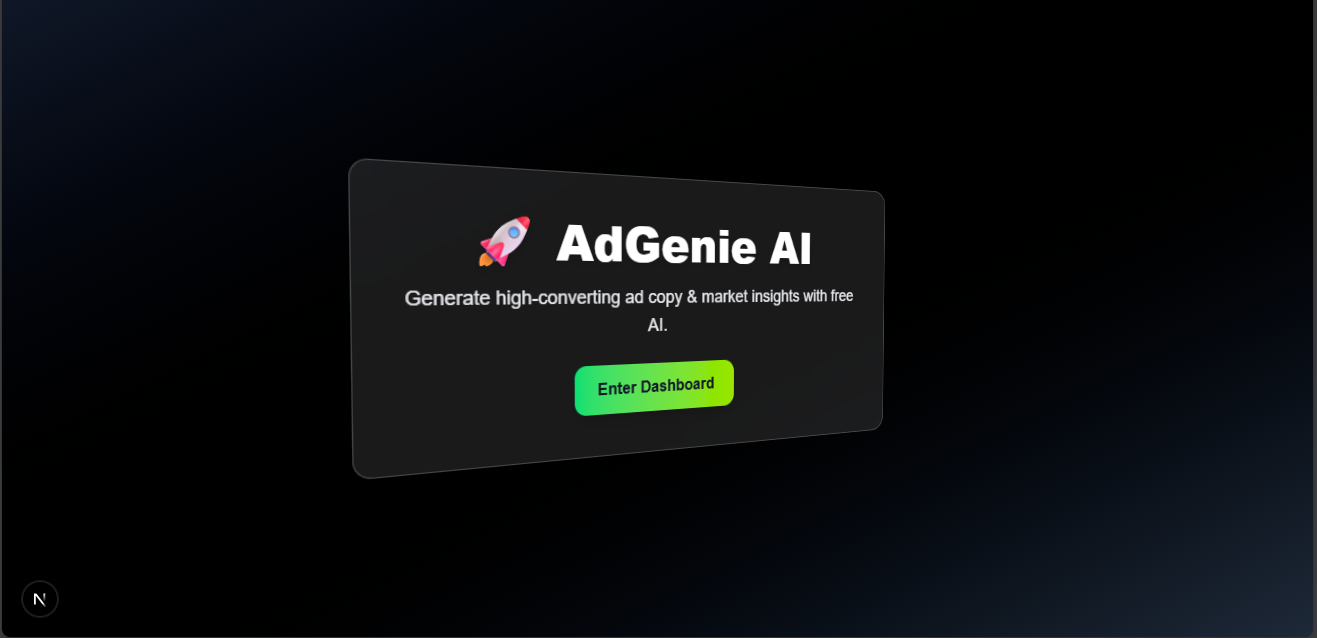
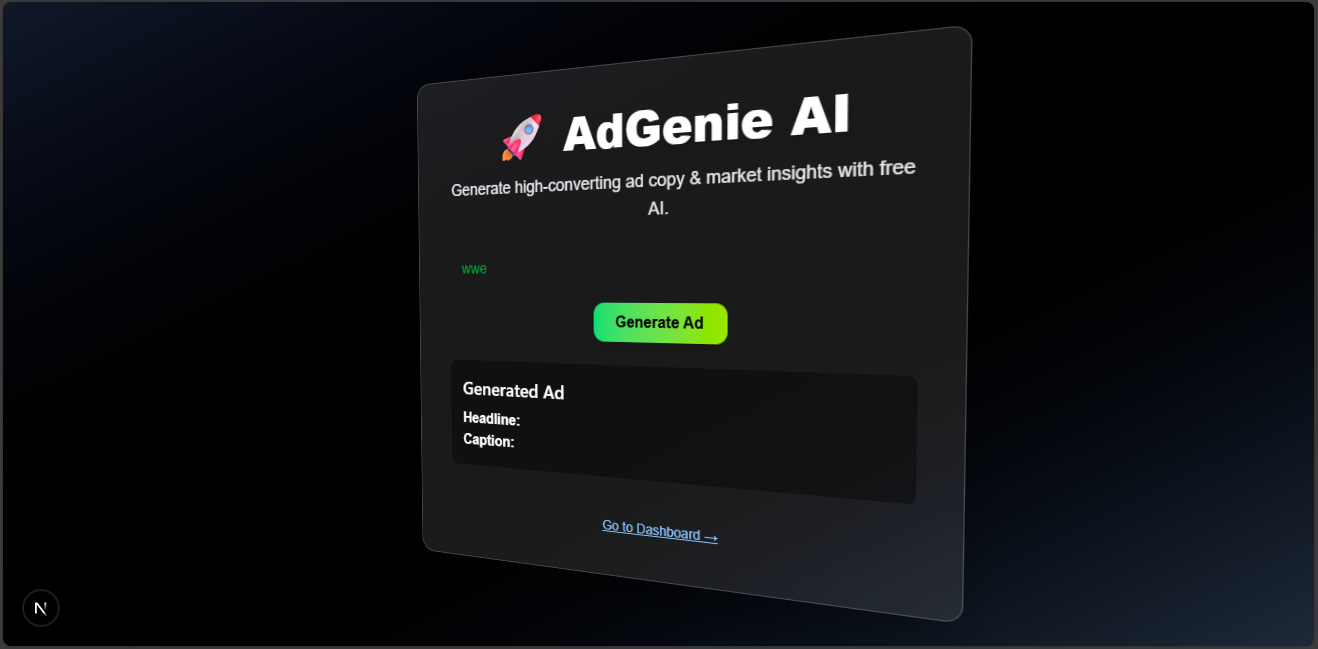
🚀 Phase 1 completed: 3D UI + AI generation working

Changed region(s): [[0.0, 0.0, 0.9962, 0.953], [0.0, 0.9828, 0.9028, 1.0], [0.0, 0.9232, 0.0311, 0.953]]

diff --git a/app/page.tsx b/app/page.tsx
@@ -4,6 +4,9 @@ import { useState } from 'react';
 
 export default function Home() {
   const [xy, setXY] = useState({ x: 0, y: 0 });
+  const [productName, setProductName] = useState<string>('');
+  const [adResult, setAdResult] = useState<any>(null);
+  const [loading, setLoading] = useState(false);
 
   function handleMouseMove(e: React.MouseEvent) {
     const rect = (e.currentTarget as HTMLDivElement).getBoundingClientRect();
@@ -12,12 +15,46 @@ export default function Home() {
     setXY({ x: x / 20, y: -y / 20 });
   }
 
+
+   // Handle form + API call
+   async function handleGenerate(){
+    try{
+
+    
+    if(!productName.trim()) return;
+
+    setLoading(true);
+    const res = await fetch('/api/generate',{
+      method:'POST',headers: { 'Content-Type': 'application/json' },
+      body: JSON.stringify({ productName })
+    })
+
+    
+    if (!res.ok) {
+      const errorText = await res.text(); // Read raw error response
+      console.error('API Error:', errorText);
+      alert('AI generation failed. Please try again later.');
+      setLoading(false);
+      return;
+    }
+
+    const data = await res.json()
+    console.log('✅ Generated:', data);
+         console.log(data.headline);
+         console.log(data.caption)
+     setAdResult(data.result);
+     setLoading(false);
+   }catch(error){
+    console.error('❌ Error calling API:', error);
+  }
+  }
+  
   return (
     <main
       className="min-h-screen bg-gradient-to-br from-gray-900 via-black to-gray-800 flex items-center justify-center relative overflow-hidden"
       onMouseMove={handleMouseMove}
     >
-      {/* Floating Glow Effect */}
+      {/* Glowing Background Lights */}
       <div className="absolute inset-0 -z-10">
         <div className="absolute top-1/4 left-1/4 w-96 h-96 bg-gradient-to-tr from-indigo-500 via-purple-500 to-pink-500 blur-[120px] opacity-40 rounded-full animate-pulse" />
         <div className="absolute bottom-10 right-10 w-72 h-72 bg-gradient-to-br from-yellow-400 via-orange-500 to-red-500 blur-[100px] opacity-30 rounded-full animate-spin-slow" />
@@ -25,12 +62,12 @@ export default function Home() {
 
       {/* 3D Card */}
       <div
-        className="transition-transform duration-300"
+        className="transition-transform duration-300 w-full px-4"
         style={{
           transform: `perspective(800px) rotateX(${xy.y}deg) rotateY(${xy.x}deg)`,
         }}
       >
-        <div className="bg-white/10 backdrop-blur-md shadow-2xl rounded-2xl max-w-xl text-center p-10 border border-white/20">
+        <div className="bg-white/10 backdrop-blur-md shadow-2xl rounded-2xl max-w-xl mx-auto text-center p-10 border border-white/20">
           <h1 className="text-5xl font-extrabold text-white mb-4 drop-shadow-lg">
             🚀 AdGenie AI
           </h1>
@@ -38,13 +75,45 @@ export default function Home() {
             Generate high-converting ad copy & market insights with free AI.
           </p>
 
-          <Link href="/dashboard">
-            <span className="inline-block px-6 py-3 bg-gradient-to-r from-green-400 to-lime-400 text-gray-900 font-semibold rounded-xl shadow-lg hover:scale-105 transition-transform duration-300">
-              Enter Dashboard
-            </span>
-          </Link>
+          {/* Input + Generate Button */}
+          <div className="flex flex-col items-center gap-4">
+            <input
+              className="w-full px-4 py-2 rounded text-green-600 focus:outline-none"
+              placeholder="Enter your product or brand name..."
+              value={productName}
+              onChange={(e) => setProductName(e.target.value)}
+            />
+            <button
+              className="bg-gradient-to-r from-green-400 to-lime-400 text-black font-semibold px-6 py-2 rounded-xl shadow-lg hover:scale-105 transition duration-300"
+              onClick={handleGenerate}
+              disabled={loading}
+            >
+              {loading ? 'Generating...' : 'Generate Ad'}
+            </button>
+          </div>
+
+          {/* Result Box */}
+          {adResult && (
+            <div className="mt-6 text-left bg-black/40 p-4 rounded-lg text-white">
+                <h2 className="text-xl font-semibold mb-2" style={{ fontFamily: 'Inter, Segoe UI, Arial, sans-serif' }}>
+                Generated Ad
+                </h2>
+              <p><strong>Headline:</strong> {adResult.headline}</p>
+              <p><strong>Caption:</strong> {adResult.caption}</p>
+            </div>
+          )}
+
+          {/* Dashboard Link */}
+          <div className="mt-6">
+            <Link href="/dashboard">
+              <span className="inline-block mt-4 text-sm text-blue-300 underline hover:text-white transition">
+                Go to Dashboard →
+              </span>
+            </Link>
+          </div>
         </div>
       </div>
     </main>
   );
 }
+

diff --git a/app/api/generate/route.ts b/app/api/generate/route.ts
@@ -1,0 +1,72 @@
+import { NextRequest, NextResponse } from 'next/server';
+
+export async function POST(req: NextRequest) {
+  try {
+    const body = await req.json();
+    const { productName } = body;
+
+    if (!productName) {
+      return NextResponse.json({ error: 'Missing product name' }, { status: 400 });
+    }
+
+    // AI Prompt
+    const prompt = `
+Generate an ad in this format:
+
+Headline: <a catchy, engaging ad title>
+Caption: <a short, clear caption for the ad>
+
+Product: ${productName}
+Only return the Headline and Caption.
+`;
+
+    // OpenRouter API call
+    const response = await fetch('https://openrouter.ai/api/v1/chat/completions', {
+      method: 'POST',
+      headers: {
+        'Authorization': `Bearer ${process.env.OPENROUTER_API_KEY}`,
+        'Content-Type': 'application/json',
+        'HTTP-Referer': 'http://localhost:3000', // Required by OpenRouter
+        'X-Title': 'AdGenie AI',
+      },
+      body: JSON.stringify({
+        model: 'mistralai/mixtral-8x7b-instruct', // or 'anthropic/claude-3-haiku'
+        messages: [{ role: 'user', content: prompt }],
+        temperature: 0.7,
+      }),
+    });
+
+    const resultText = await response.text();
+
+    let result;
+    try {
+      result = JSON.parse(resultText);
+    } catch {
+      console.error('❌ Failed to parse AI response:', resultText);
+      return NextResponse.json({ error: 'Invalid AI response' }, { status: 500 });
+    }
+
+    const output = result.choices?.[0]?.message?.content?.trim() || '';
+    console.log('🧠 AI Output:', output);
+
+    // ✅ Safe split-based logic
+    let headline = '';
+    let caption = '';
+
+    if (output.includes('Headline:') && output.includes('Caption:')) {
+      const parts = output.split('Caption:');
+      const headlinePart = parts[0].replace('Headline:', '').trim();
+      const captionPart = parts[1].trim();
+      headline = headlinePart;
+      caption = captionPart;
+    } else {
+      caption = output;
+      console.warn('⚠ Unexpected AI format. Used full output as caption.');
+    }
+
+    return NextResponse.json({ result: { headline, caption } });
+  } catch (error) {
+    console.error('🔥 Server Error:', error);
+    return NextResponse.json({ error: 'Internal Server Error' }, { status: 500 });
+  }
+}

diff --git a/README.md b/README.md
@@ -1,42 +1,93 @@
 # 🚀 AdGenie AI – Phase 1
 
-AdGenie AI is a free SaaS project that helps marketers and businesses generate AI-powered ad content and conduct market research from internet data. This is **Phase 1** of the project, which includes a 3D interactive landing page built with modern frontend tools.
+AdGenie AI is a free SaaS project that helps marketers and businesses generate AI-powered ad content and conduct market research from internet data. This is **Phase 1** of the project, which features a futuristic 3D interactive landing page built with modern frontend technologies.
 
 ---
 
 ## 📸 Preview
 
-> ![Homepage Preview](./public/preview.png)
+> ![Homepage Preview](./public/preview.png)  
 > _A futuristic 3D landing page powered by Tailwind CSS + Next.js_
 
 ---
 
 ## 🛠 Built With
 
-| Tech       | Description                                |
-|------------|--------------------------------------------|
-| Next.js 14 | React-based framework for full stack apps  |
-| Tailwind CSS | Utility-first modern CSS styling         |
-| TypeScript | Type-safe and scalable development         |
-| App Router | For file-based routing and layouts         |
-| Git & GitHub | For source control and collaboration     |
+| Tech         | Description                                |
+|--------------|--------------------------------------------|
+| **Next.js 14** | React framework with App Router for routing |
+| **Tailwind CSS** | Utility-first modern CSS styling         |
+| **TypeScript** | Type-safe and scalable frontend & backend |
+| **OpenRouter.ai** | Free AI API proxy for OpenAI/Claude-like models |
+| **Git & GitHub** | Source control + versioning             |
 
 ---
 
 ## ✨ Features
 
-- 3D animated landing page with tilt effects  
-- Tailwind-based modern UI design  
-- Fully responsive and mobile-friendly  
-- Route to `/dashboard` using Next.js App Router  
-- Clean folder structure and scalable codebase  
+- 🎯 3D animated landing page with real-time mouse tilt effects  
+- 🎨 Responsive, glassmorphism-based modern UI  
+- 🧑💻 Built with App Router and TypeScript for scalability  
+- 🔗 Link to `/dashboard` (Phase 2 ready)  
+- 📁 Clean folder structure for enterprise-level growth
 
 ---
 
-## 🚀 Getting Started (For Developers)
+## 🧠 AI API Integration
 
-```bash
+This project uses the **OpenRouter.ai API** to generate ad content for a given product or brand.
+
+### 🔍 How it works:
+1. When a user submits a product name, it is sent to the backend API (`/api/generate`)
+2. The backend calls OpenRouter's `/v1/chat/completions` endpoint
+3. A custom prompt is passed to generate:
+   - **Headline**: Attention-grabbing ad title  
+   - **Caption**: Short description/CTA  
+4. The AI response is extracted and shown in the UI
+
+### ✅ Free AI Model Used:
+- **Model:** `mistralai/mixtral-8x7b-instruct` (fast & free)
+- **API:** `https://openrouter.ai/api/v1/chat/completions`
+
+### 📦 Sample Prompt Sent:
+```txt
+Generate an ad in this format:
+Headline: <your catchy title>
+Caption: <short 1-line copy>
+
+Product: GlowSkin Serum
+
+
+📁 Folder Structure
+graphql
+Copy
+Edit
+adgenie-ai/
+├── app/
+│   ├── page.tsx              # Landing page (3D UI + input form)
+│   ├── dashboard/            # (Phase 2: Ad history view)
+│   └── layout.tsx            # Global layout component
+├── app/api/generate/
+│   └── route.ts              # API route using OpenRouter AI
+├── styles/
+│   └── globals.css           # Global CSS (Tailwind base)
+├── public/
+│   └── preview.png           # Homepage preview image
+├── .env.local                # API key env vars
+├── tailwind.config.ts        # Tailwind customization
+├── tsconfig.json             # TypeScript settings
+└── README.md
+
 git clone https://github.com/sagarsdevaraddi/adgenie-ai.git
 cd adgenie-ai
-npm install
-npm run dev
+
+
+upcoming.......
+| Feature                       | Tool/Service                                                         | Price |
+| ----------------------------- | -------------------------------------------------------------------- | ----- |
+| 🔐 Login (Google Auth)        | [NextAuth.js](https://next-auth.js.org/) + Google OAuth              | Free  |
+| 💾 Database                   | [MongoDB Atlas (Free Tier)](https://www.mongodb.com/cloud/atlas)     | Free  |
+| 🔧 ORM for DB                 | [Prisma](https://www.prisma.io/)                                     | Free  |
+| 🧾 Export ads to text/PDF/CSV | Native browser features + [jsPDF](https://github.com/parallax/jsPDF) | Free  |
+| 💻 Hosting & CI/CD            | [Vercel (Free Tier)](https://vercel.com)                             | Free  |
+| 🧠 AI Backend                 | [OpenRouter.ai (Free API)](https://openrouter.ai)                    | Free  |
